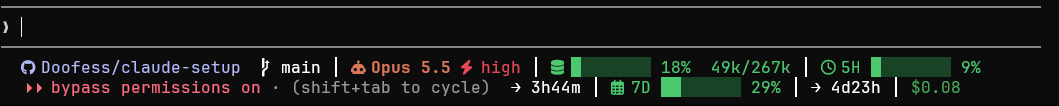
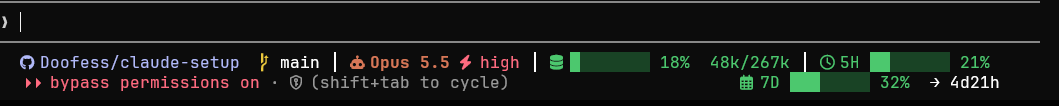
README: the second row's layout, new picture

diff --git a/README.md b/README.md
@@ -34,9 +34,15 @@ no room is wasted:
 <img src="docs/images/statusbar-narrow.png" width="380" alt="The bar at 60 columns: the repo cut to claude-s…, then branch, model and context">
 
 Dropped pieces aren't lost. The session-cards mod (below) moves them onto Claude Code's hint line, beside the
-permissions text, so a piece only disappears once both lines are full:
+permissions text:
 
-![At 104 columns the bar keeps repo, branch, model, effort, context and the 5-hour meter; the 5-hour reset, the 7-day meter and the cost move onto the hint line](docs/images/hint-overflow.png)
+- A reset time whose meter stays on the top row sits right under the meter's first block, without its `→`.
+- A meter that moves takes its reset time with it (`7D ████ 32%  → 4d21h`), its first block under the last meter
+  left on the top row. Where it can't line up, it goes to the right.
+- The rest (cost, session time) is right-aligned at the margin.
+- Where pieces collide, the least important one drops, in the bar's own order; the hint always stays.
+
+![At 104 columns the bar keeps repo, branch, model, effort, context and the 5-hour meter; the 7-day meter moves onto the hint line with its reset time, right-aligned](docs/images/hint-overflow.png)
 
 The icons come from a Nerd Font. On a machine without one, the installer switches the bar to short words instead
 (`ctx`, `5H`, `7D`), so it reads fine in any monospace font. To see the bar without starting Claude Code, run
@@ -159,7 +165,8 @@ Not versioned on purpose: `~/.claude.json` (login state, user-scope MCP servers)
 - Effort runs green, yellow, the bypass red, then xhigh and max as the `/effort` picker draws them, held still: xhigh in
   the violet of `accept edits` with its middle letter lit, max a rainbow that starts at the bolt.
 - The pieces dropped on a narrow terminal are written to `~/.claude/statusbar-overflow/<session_id>.json`, as text with
-  their colours; files older than a day are removed. The session-cards mod reads them for the hint line. While the hint
+  their colours, with where each one goes and the width of the mode label in front of the hint (read from the session
+  transcript); files older than a day are removed. The session-cards mod reads them for the hint line. While the hint
   line shows that overflow, its shortcut pills are plain text; with nothing to show, Claude Code's own line stays.
 - Reset times and the session time leave out a zero hour count past a day: `5d`, not `5d0h`.
 - Most of the bar's and the mod's colours are the colour scheme's own 16; Claude orange, the repo's violet and high
